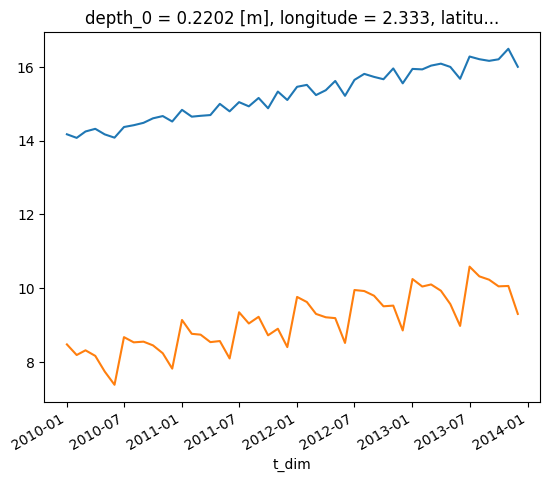
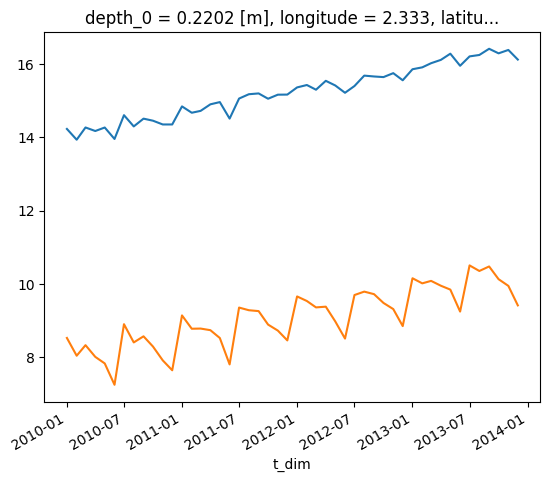
Updated General notebook pages from coast repo.

diff --git a/content/en/docs/Examples/Notebooks/General/seasonal_decomp_example.md b/content/en/docs/Examples/Notebooks/General/seasonal_decomp_example.md
@@ -86,7 +86,7 @@ temperature[0,0,:,:].plot()
 
 
 
-    <matplotlib.collections.QuadMesh at 0x7f813cb17400>
+    <matplotlib.collections.QuadMesh at 0x7f577503da90>
 
 
 
@@ -107,7 +107,7 @@ temperature[:,0,200,200].plot()
 
 
 
-    [<matplotlib.lines.Line2D at 0x7f813c959220>]
+    [<matplotlib.lines.Line2D at 0x7f5774e85a30>]
 
 
 
@@ -513,7 +513,7 @@ Dimensions without coordinates: z_dim, y_dim, x_dim
 Data variables:
     trend      (t_dim, z_dim, y_dim, x_dim) float64 nan nan nan ... nan nan nan
     seasonal   (t_dim, z_dim, y_dim, x_dim) float64 nan nan nan ... nan nan nan
-    residual   (t_dim, z_dim, y_dim, x_dim) float64 nan nan nan ... nan nan nan</pre><div class='xr-wrap' style='display:none'><div class='xr-header'><div class='xr-obj-type'>xarray.Dataset</div></div><ul class='xr-sections'><li class='xr-section-item'><input id='section-73af2abd-d2d8-4fd4-a4c1-2c2d512a7f9b' class='xr-section-summary-in' type='checkbox' disabled ><label for='section-73af2abd-d2d8-4fd4-a4c1-2c2d512a7f9b' class='xr-section-summary'  title='Expand/collapse section'>Dimensions:</label><div class='xr-section-inline-details'><ul class='xr-dim-list'><li><span class='xr-has-index'>t_dim</span>: 48</li><li><span>z_dim</span>: 2</li><li><span>y_dim</span>: 375</li><li><span>x_dim</span>: 297</li></ul></div><div class='xr-section-details'></div></li><li class='xr-section-item'><input id='section-dbed577f-ab55-45ea-9c8e-49afcd4b0889' class='xr-section-summary-in' type='checkbox'  checked><label for='section-dbed577f-ab55-45ea-9c8e-49afcd4b0889' class='xr-section-summary' >Coordinates: <span>(4)</span></label><div class='xr-section-inline-details'></div><div class='xr-section-details'><ul class='xr-var-list'><li class='xr-var-item'><div class='xr-var-name'><span class='xr-has-index'>t_dim</span></div><div class='xr-var-dims'>(t_dim)</div><div class='xr-var-dtype'>datetime64[ns]</div><div class='xr-var-preview xr-preview'>2010-01-01 ... 2013-12-01</div><input id='attrs-d571bce1-57db-4f8c-b121-10859d7c633d' class='xr-var-attrs-in' type='checkbox' disabled><label for='attrs-d571bce1-57db-4f8c-b121-10859d7c633d' title='Show/Hide attributes'><svg class='icon xr-icon-file-text2'><use xlink:href='#icon-file-text2'></use></svg></label><input id='data-36d46134-27ab-4b8e-affd-327f8ad4936f' class='xr-var-data-in' type='checkbox'><label for='data-36d46134-27ab-4b8e-affd-327f8ad4936f' title='Show/Hide data repr'><svg class='icon xr-icon-database'><use xlink:href='#icon-database'></use></svg></label><div class='xr-var-attrs'><dl class='xr-attrs'></dl></div><div class='xr-var-data'><pre>array([&#x27;2010-01-01T00:00:00.000000000&#x27;, &#x27;2010-02-01T00:00:00.000000000&#x27;,
+    residual   (t_dim, z_dim, y_dim, x_dim) float64 nan nan nan ... nan nan nan</pre><div class='xr-wrap' style='display:none'><div class='xr-header'><div class='xr-obj-type'>xarray.Dataset</div></div><ul class='xr-sections'><li class='xr-section-item'><input id='section-be43ac84-631e-448d-baca-e4f25aa2b2a9' class='xr-section-summary-in' type='checkbox' disabled ><label for='section-be43ac84-631e-448d-baca-e4f25aa2b2a9' class='xr-section-summary'  title='Expand/collapse section'>Dimensions:</label><div class='xr-section-inline-details'><ul class='xr-dim-list'><li><span class='xr-has-index'>t_dim</span>: 48</li><li><span>z_dim</span>: 2</li><li><span>y_dim</span>: 375</li><li><span>x_dim</span>: 297</li></ul></div><div class='xr-section-details'></div></li><li class='xr-section-item'><input id='section-66bbd9fa-11a6-4f38-96e3-ae0164eb0a09' class='xr-section-summary-in' type='checkbox'  checked><label for='section-66bbd9fa-11a6-4f38-96e3-ae0164eb0a09' class='xr-section-summary' >Coordinates: <span>(4)</span></label><div class='xr-section-inline-details'></div><div class='xr-section-details'><ul class='xr-var-list'><li class='xr-var-item'><div class='xr-var-name'><span class='xr-has-index'>t_dim</span></div><div class='xr-var-dims'>(t_dim)</div><div class='xr-var-dtype'>datetime64[ns]</div><div class='xr-var-preview xr-preview'>2010-01-01 ... 2013-12-01</div><input id='attrs-18e93af1-31ca-455d-b0a4-ae4cdf4f794d' class='xr-var-attrs-in' type='checkbox' disabled><label for='attrs-18e93af1-31ca-455d-b0a4-ae4cdf4f794d' title='Show/Hide attributes'><svg class='icon xr-icon-file-text2'><use xlink:href='#icon-file-text2'></use></svg></label><input id='data-dada59c1-12f8-46c4-a9c3-b98c597f3f2e' class='xr-var-data-in' type='checkbox'><label for='data-dada59c1-12f8-46c4-a9c3-b98c597f3f2e' title='Show/Hide data repr'><svg class='icon xr-icon-database'><use xlink:href='#icon-database'></use></svg></label><div class='xr-var-attrs'><dl class='xr-attrs'></dl></div><div class='xr-var-data'><pre>array([&#x27;2010-01-01T00:00:00.000000000&#x27;, &#x27;2010-02-01T00:00:00.000000000&#x27;,
        &#x27;2010-03-01T00:00:00.000000000&#x27;, &#x27;2010-04-01T00:00:00.000000000&#x27;,
        &#x27;2010-05-01T00:00:00.000000000&#x27;, &#x27;2010-06-01T00:00:00.000000000&#x27;,
        &#x27;2010-07-01T00:00:00.000000000&#x27;, &#x27;2010-08-01T00:00:00.000000000&#x27;,
@@ -537,7 +537,7 @@ Data variables:
        &#x27;2013-07-01T00:00:00.000000000&#x27;, &#x27;2013-08-01T00:00:00.000000000&#x27;,
        &#x27;2013-09-01T00:00:00.000000000&#x27;, &#x27;2013-10-01T00:00:00.000000000&#x27;,
        &#x27;2013-11-01T00:00:00.000000000&#x27;, &#x27;2013-12-01T00:00:00.000000000&#x27;],
-      dtype=&#x27;datetime64[ns]&#x27;)</pre></div></li><li class='xr-var-item'><div class='xr-var-name'><span>depth_0</span></div><div class='xr-var-dims'>(z_dim, y_dim, x_dim)</div><div class='xr-var-dtype'>float32</div><div class='xr-var-preview xr-preview'>0.5 0.5 0.5 0.5 ... 1.5 1.5 1.5 1.5</div><input id='attrs-89cbbe3c-6fdb-4ebf-beb4-cb51e98ec9c4' class='xr-var-attrs-in' type='checkbox' ><label for='attrs-89cbbe3c-6fdb-4ebf-beb4-cb51e98ec9c4' title='Show/Hide attributes'><svg class='icon xr-icon-file-text2'><use xlink:href='#icon-file-text2'></use></svg></label><input id='data-81a026a2-0a62-4f90-ac46-6f0ecd0963a2' class='xr-var-data-in' type='checkbox'><label for='data-81a026a2-0a62-4f90-ac46-6f0ecd0963a2' title='Show/Hide data repr'><svg class='icon xr-icon-database'><use xlink:href='#icon-database'></use></svg></label><div class='xr-var-attrs'><dl class='xr-attrs'><dt><span>units :</span></dt><dd>m</dd><dt><span>standard_name :</span></dt><dd>Depth at time zero on the t-grid</dd></dl></div><div class='xr-var-data'><pre>array([[[0.5       , 0.5       , 0.5       , ..., 0.5       ,
+      dtype=&#x27;datetime64[ns]&#x27;)</pre></div></li><li class='xr-var-item'><div class='xr-var-name'><span>depth_0</span></div><div class='xr-var-dims'>(z_dim, y_dim, x_dim)</div><div class='xr-var-dtype'>float32</div><div class='xr-var-preview xr-preview'>0.5 0.5 0.5 0.5 ... 1.5 1.5 1.5 1.5</div><input id='attrs-62214885-24a0-4266-9bf3-2a6cdebd1777' class='xr-var-attrs-in' type='checkbox' ><label for='attrs-62214885-24a0-4266-9bf3-2a6cdebd1777' title='Show/Hide attributes'><svg class='icon xr-icon-file-text2'><use xlink:href='#icon-file-text2'></use></svg></label><input id='data-b4e1d413-ba2e-42a6-b005-b02f6363d46c' class='xr-var-data-in' type='checkbox'><label for='data-b4e1d413-ba2e-42a6-b005-b02f6363d46c' title='Show/Hide data repr'><svg class='icon xr-icon-database'><use xlink:href='#icon-database'></use></svg></label><div class='xr-var-attrs'><dl class='xr-attrs'><dt><span>units :</span></dt><dd>m</dd><dt><span>standard_name :</span></dt><dd>Depth at time zero on the t-grid</dd></dl></div><div class='xr-var-data'><pre>array([[[0.5       , 0.5       , 0.5       , ..., 0.5       ,
          0.5       , 0.5       ],
         [0.5       , 0.4975586 , 0.4975586 , ..., 0.10009766,
          0.10009766, 0.5       ],
@@ -563,7 +563,7 @@ Data variables:
         [1.5       , 0.30029297, 0.30029297, ..., 0.30029297,
          0.30029297, 1.5       ],
         [1.5       , 1.5       , 1.5       , ..., 1.5       ,
-         1.5       , 1.5       ]]], dtype=float32)</pre></div></li><li class='xr-var-item'><div class='xr-var-name'><span>longitude</span></div><div class='xr-var-dims'>(y_dim, x_dim)</div><div class='xr-var-dtype'>float32</div><div class='xr-var-preview xr-preview'>-19.89 -19.78 -19.67 ... 12.89 13.0</div><input id='attrs-32cc5cea-4ea9-4457-a7b2-c6b91e94ea8c' class='xr-var-attrs-in' type='checkbox' disabled><label for='attrs-32cc5cea-4ea9-4457-a7b2-c6b91e94ea8c' title='Show/Hide attributes'><svg class='icon xr-icon-file-text2'><use xlink:href='#icon-file-text2'></use></svg></label><input id='data-59d39435-3756-4332-9345-547d0c268db8' class='xr-var-data-in' type='checkbox'><label for='data-59d39435-3756-4332-9345-547d0c268db8' title='Show/Hide data repr'><svg class='icon xr-icon-database'><use xlink:href='#icon-database'></use></svg></label><div class='xr-var-attrs'><dl class='xr-attrs'></dl></div><div class='xr-var-data'><pre>array([[-19.888672, -19.777344, -19.666992, ...,  12.777344,  12.888672,
+         1.5       , 1.5       ]]], dtype=float32)</pre></div></li><li class='xr-var-item'><div class='xr-var-name'><span>longitude</span></div><div class='xr-var-dims'>(y_dim, x_dim)</div><div class='xr-var-dtype'>float32</div><div class='xr-var-preview xr-preview'>-19.89 -19.78 -19.67 ... 12.89 13.0</div><input id='attrs-1b98c3bf-fd96-4663-ad65-f6e01ff4c66c' class='xr-var-attrs-in' type='checkbox' disabled><label for='attrs-1b98c3bf-fd96-4663-ad65-f6e01ff4c66c' title='Show/Hide attributes'><svg class='icon xr-icon-file-text2'><use xlink:href='#icon-file-text2'></use></svg></label><input id='data-1c64d6ac-4b03-4fce-aac2-291940099782' class='xr-var-data-in' type='checkbox'><label for='data-1c64d6ac-4b03-4fce-aac2-291940099782' title='Show/Hide data repr'><svg class='icon xr-icon-database'><use xlink:href='#icon-database'></use></svg></label><div class='xr-var-attrs'><dl class='xr-attrs'></dl></div><div class='xr-var-data'><pre>array([[-19.888672, -19.777344, -19.666992, ...,  12.777344,  12.888672,
          13.      ],
        [-19.888672, -19.777344, -19.666992, ...,  12.777344,  12.888672,
          13.      ],
@@ -575,7 +575,7 @@ Data variables:
        [-19.888672, -19.777344, -19.666992, ...,  12.777344,  12.888672,
          13.      ],
        [-19.888672, -19.777344, -19.666992, ...,  12.777344,  12.888672,
-         13.      ]], dtype=float32)</pre></div></li><li class='xr-var-item'><div class='xr-var-name'><span>latitude</span></div><div class='xr-var-dims'>(y_dim, x_dim)</div><div class='xr-var-dtype'>float32</div><div class='xr-var-preview xr-preview'>40.07 40.07 40.07 ... 65.0 65.0</div><input id='attrs-fa23b420-d075-4c0e-afec-fee491cfd922' class='xr-var-attrs-in' type='checkbox' disabled><label for='attrs-fa23b420-d075-4c0e-afec-fee491cfd922' title='Show/Hide attributes'><svg class='icon xr-icon-file-text2'><use xlink:href='#icon-file-text2'></use></svg></label><input id='data-471a2b3f-bcf1-48ec-9f22-bc169607765a' class='xr-var-data-in' type='checkbox'><label for='data-471a2b3f-bcf1-48ec-9f22-bc169607765a' title='Show/Hide data repr'><svg class='icon xr-icon-database'><use xlink:href='#icon-database'></use></svg></label><div class='xr-var-attrs'><dl class='xr-attrs'></dl></div><div class='xr-var-data'><pre>array([[40.066406, 40.066406, 40.066406, ..., 40.066406, 40.066406,
+         13.      ]], dtype=float32)</pre></div></li><li class='xr-var-item'><div class='xr-var-name'><span>latitude</span></div><div class='xr-var-dims'>(y_dim, x_dim)</div><div class='xr-var-dtype'>float32</div><div class='xr-var-preview xr-preview'>40.07 40.07 40.07 ... 65.0 65.0</div><input id='attrs-50b59007-34d8-4b6e-b578-8456a6d2d744' class='xr-var-attrs-in' type='checkbox' disabled><label for='attrs-50b59007-34d8-4b6e-b578-8456a6d2d744' title='Show/Hide attributes'><svg class='icon xr-icon-file-text2'><use xlink:href='#icon-file-text2'></use></svg></label><input id='data-f11c4578-3b1f-4e79-9410-9485053387ff' class='xr-var-data-in' type='checkbox'><label for='data-f11c4578-3b1f-4e79-9410-9485053387ff' title='Show/Hide data repr'><svg class='icon xr-icon-database'><use xlink:href='#icon-database'></use></svg></label><div class='xr-var-attrs'><dl class='xr-attrs'></dl></div><div class='xr-var-data'><pre>array([[40.066406, 40.066406, 40.066406, ..., 40.066406, 40.066406,
         40.066406],
        [40.13379 , 40.13379 , 40.13379 , ..., 40.13379 , 40.13379 ,
         40.13379 ],
@@ -587,11 +587,11 @@ Data variables:
        [64.93457 , 64.93457 , 64.93457 , ..., 64.93457 , 64.93457 ,
         64.93457 ],
        [65.00098 , 65.00098 , 65.00098 , ..., 65.00098 , 65.00098 ,
-        65.00098 ]], dtype=float32)</pre></div></li></ul></div></li><li class='xr-section-item'><input id='section-c32d3082-2523-4e92-8549-7c2a6ad69ebf' class='xr-section-summary-in' type='checkbox'  checked><label for='section-c32d3082-2523-4e92-8549-7c2a6ad69ebf' class='xr-section-summary' >Data variables: <span>(3)</span></label><div class='xr-section-inline-details'></div><div class='xr-section-details'><ul class='xr-var-list'><li class='xr-var-item'><div class='xr-var-name'><span>trend</span></div><div class='xr-var-dims'>(t_dim, z_dim, y_dim, x_dim)</div><div class='xr-var-dtype'>float64</div><div class='xr-var-preview xr-preview'>nan nan nan nan ... nan nan nan nan</div><input id='attrs-1c200a37-acdb-426b-9b3e-63e7b30ebc39' class='xr-var-attrs-in' type='checkbox' disabled><label for='attrs-1c200a37-acdb-426b-9b3e-63e7b30ebc39' title='Show/Hide attributes'><svg class='icon xr-icon-file-text2'><use xlink:href='#icon-file-text2'></use></svg></label><input id='data-cc3ee7ec-0d32-4569-819b-993ccedb0c67' class='xr-var-data-in' type='checkbox'><label for='data-cc3ee7ec-0d32-4569-819b-993ccedb0c67' title='Show/Hide data repr'><svg class='icon xr-icon-database'><use xlink:href='#icon-database'></use></svg></label><div class='xr-var-attrs'><dl class='xr-attrs'></dl></div><div class='xr-var-data'><pre>array([[[[        nan,         nan,         nan, ...,         nan,
+        65.00098 ]], dtype=float32)</pre></div></li></ul></div></li><li class='xr-section-item'><input id='section-79c3837d-47e1-437a-89e3-727bf4d669fc' class='xr-section-summary-in' type='checkbox'  checked><label for='section-79c3837d-47e1-437a-89e3-727bf4d669fc' class='xr-section-summary' >Data variables: <span>(3)</span></label><div class='xr-section-inline-details'></div><div class='xr-section-details'><ul class='xr-var-list'><li class='xr-var-item'><div class='xr-var-name'><span>trend</span></div><div class='xr-var-dims'>(t_dim, z_dim, y_dim, x_dim)</div><div class='xr-var-dtype'>float64</div><div class='xr-var-preview xr-preview'>nan nan nan nan ... nan nan nan nan</div><input id='attrs-f5896077-20e5-40d0-ab87-0686fa9b584c' class='xr-var-attrs-in' type='checkbox' disabled><label for='attrs-f5896077-20e5-40d0-ab87-0686fa9b584c' title='Show/Hide attributes'><svg class='icon xr-icon-file-text2'><use xlink:href='#icon-file-text2'></use></svg></label><input id='data-be8e89dc-d757-42a4-b3dd-fa49cbf11b9b' class='xr-var-data-in' type='checkbox'><label for='data-be8e89dc-d757-42a4-b3dd-fa49cbf11b9b' title='Show/Hide data repr'><svg class='icon xr-icon-database'><use xlink:href='#icon-database'></use></svg></label><div class='xr-var-attrs'><dl class='xr-attrs'></dl></div><div class='xr-var-data'><pre>array([[[[        nan,         nan,         nan, ...,         nan,
                   nan,         nan],
-         [        nan, 15.2980616 , 15.29480639, ...,         nan,
+         [        nan, 15.32461529, 15.32136008, ...,         nan,
                   nan,         nan],
-         [        nan, 15.28699389, 15.45479988, ...,         nan,
+         [        nan, 15.31354758, 15.48135357, ...,         nan,
                   nan,         nan],
          ...,
          [        nan,         nan,         nan, ...,         nan,
@@ -603,9 +603,9 @@ Data variables:
 
         [[        nan,         nan,         nan, ...,         nan,
                   nan,         nan],
-         [        nan, 15.29708504, 15.29399259, ...,         nan,
+         [        nan, 15.32363873, 15.32054628, ...,         nan,
                   nan,         nan],
-         [        nan, 15.28585457, 15.45870613, ...,         nan,
+         [        nan, 15.31240826, 15.48525982, ...,         nan,
                   nan,         nan],
 ...
          [        nan,         nan,         nan, ...,         nan,
@@ -617,9 +617,9 @@ Data variables:
 
         [[        nan,         nan,         nan, ...,         nan,
                   nan,         nan],
-         [        nan, 17.5558741 , 17.55278166, ...,         nan,
+         [        nan, 17.73842966, 17.73533721, ...,         nan,
                   nan,         nan],
-         [        nan, 17.54464364, 17.7174952 , ...,         nan,
+         [        nan, 17.72719919, 17.90005075, ...,         nan,
                   nan,         nan],
          ...,
          [        nan,         nan,         nan, ...,         nan,
@@ -627,11 +627,11 @@ Data variables:
          [        nan,         nan,         nan, ...,         nan,
                   nan,         nan],
          [        nan,         nan,         nan, ...,         nan,
-                  nan,         nan]]]])</pre></div></li><li class='xr-var-item'><div class='xr-var-name'><span>seasonal</span></div><div class='xr-var-dims'>(t_dim, z_dim, y_dim, x_dim)</div><div class='xr-var-dtype'>float64</div><div class='xr-var-preview xr-preview'>nan nan nan nan ... nan nan nan nan</div><input id='attrs-e67d79c7-5e12-4381-93bf-415d33bdb441' class='xr-var-attrs-in' type='checkbox' disabled><label for='attrs-e67d79c7-5e12-4381-93bf-415d33bdb441' title='Show/Hide attributes'><svg class='icon xr-icon-file-text2'><use xlink:href='#icon-file-text2'></use></svg></label><input id='data-667e1855-3e65-4bca-8dfe-6bfcd02db984' class='xr-var-data-in' type='checkbox'><label for='data-667e1855-3e65-4bca-8dfe-6bfcd02db984' title='Show/Hide data repr'><svg class='icon xr-icon-database'><use xlink:href='#icon-database'></use></svg></label><div class='xr-var-attrs'><dl class='xr-attrs'></dl></div><div class='xr-var-data'><pre>array([[[[        nan,         nan,         nan, ...,         nan,
+                  nan,         nan]]]])</pre></div></li><li class='xr-var-item'><div class='xr-var-name'><span>seasonal</span></div><div class='xr-var-dims'>(t_dim, z_dim, y_dim, x_dim)</div><div class='xr-var-dtype'>float64</div><div class='xr-var-preview xr-preview'>nan nan nan nan ... nan nan nan nan</div><input id='attrs-ceab550e-102d-4636-aa2e-99d9d822c074' class='xr-var-attrs-in' type='checkbox' disabled><label for='attrs-ceab550e-102d-4636-aa2e-99d9d822c074' title='Show/Hide attributes'><svg class='icon xr-icon-file-text2'><use xlink:href='#icon-file-text2'></use></svg></label><input id='data-748d4221-f253-4705-bcb8-86382f201fbe' class='xr-var-data-in' type='checkbox'><label for='data-748d4221-f253-4705-bcb8-86382f201fbe' title='Show/Hide data repr'><svg class='icon xr-icon-database'><use xlink:href='#icon-database'></use></svg></label><div class='xr-var-attrs'><dl class='xr-attrs'></dl></div><div class='xr-var-data'><pre>array([[[[        nan,         nan,         nan, ...,         nan,
                   nan,         nan],
-         [        nan,  0.08177384, -0.00188501, ...,         nan,
+         [        nan,  0.07128676, -0.0123721 , ...,         nan,
                   nan,         nan],
-         [        nan,  0.10748999,  0.33714493, ...,         nan,
+         [        nan,  0.0970029 ,  0.32665785, ...,         nan,
                   nan,         nan],
          ...,
          [        nan,         nan,         nan, ...,         nan,
@@ -643,9 +643,9 @@ Data variables:
 
         [[        nan,         nan,         nan, ...,         nan,
                   nan,         nan],
-         [        nan,  0.07103165, -0.01278996, ...,         nan,
+         [        nan,  0.06054457, -0.02327704, ...,         nan,
                   nan,         nan],
-         [        nan,  0.09691056,  0.33323868, ...,         nan,
+         [        nan,  0.08642348,  0.3227516 , ...,         nan,
                   nan,         nan],
 ...
          [        nan,         nan,         nan, ...,         nan,
@@ -657,9 +657,9 @@ Data variables:
 
         [[        nan,         nan,         nan, ...,         nan,
                   nan,         nan],
-         [        nan, -0.30710945, -0.29034513, ...,         nan,
+         [        nan, -0.3225998 , -0.30583548, ...,         nan,
                   nan,         nan],
-         [        nan, -0.31736336, -0.66599617, ...,         nan,
+         [        nan, -0.33285371, -0.68148652, ...,         nan,
                   nan,         nan],
          ...,
          [        nan,         nan,         nan, ...,         nan,
@@ -667,11 +667,11 @@ Data variables:
          [        nan,         nan,         nan, ...,         nan,
                   nan,         nan],
          [        nan,         nan,         nan, ...,         nan,
-                  nan,         nan]]]])</pre></div></li><li class='xr-var-item'><div class='xr-var-name'><span>residual</span></div><div class='xr-var-dims'>(t_dim, z_dim, y_dim, x_dim)</div><div class='xr-var-dtype'>float64</div><div class='xr-var-preview xr-preview'>nan nan nan nan ... nan nan nan nan</div><input id='attrs-b7b4a311-7962-4c97-9d44-2a0d6f7f4d83' class='xr-var-attrs-in' type='checkbox' disabled><label for='attrs-b7b4a311-7962-4c97-9d44-2a0d6f7f4d83' title='Show/Hide attributes'><svg class='icon xr-icon-file-text2'><use xlink:href='#icon-file-text2'></use></svg></label><input id='data-024fe185-7eef-4175-8a11-51795a0bd41e' class='xr-var-data-in' type='checkbox'><label for='data-024fe185-7eef-4175-8a11-51795a0bd41e' title='Show/Hide data repr'><svg class='icon xr-icon-database'><use xlink:href='#icon-database'></use></svg></label><div class='xr-var-attrs'><dl class='xr-attrs'></dl></div><div class='xr-var-data'><pre>array([[[[        nan,         nan,         nan, ...,         nan,
+                  nan,         nan]]]])</pre></div></li><li class='xr-var-item'><div class='xr-var-name'><span>residual</span></div><div class='xr-var-dims'>(t_dim, z_dim, y_dim, x_dim)</div><div class='xr-var-dtype'>float64</div><div class='xr-var-preview xr-preview'>nan nan nan nan ... nan nan nan nan</div><input id='attrs-b61d6a2a-7b5a-4d53-9405-be4983c623b3' class='xr-var-attrs-in' type='checkbox' disabled><label for='attrs-b61d6a2a-7b5a-4d53-9405-be4983c623b3' title='Show/Hide attributes'><svg class='icon xr-icon-file-text2'><use xlink:href='#icon-file-text2'></use></svg></label><input id='data-773dd443-fbcf-4f3e-8396-95c833110867' class='xr-var-data-in' type='checkbox'><label for='data-773dd443-fbcf-4f3e-8396-95c833110867' title='Show/Hide data repr'><svg class='icon xr-icon-database'><use xlink:href='#icon-database'></use></svg></label><div class='xr-var-attrs'><dl class='xr-attrs'></dl></div><div class='xr-var-data'><pre>array([[[[        nan,         nan,         nan, ...,         nan,
                   nan,         nan],
-         [        nan,  0.03964773,  0.03964773, ...,         nan,
+         [        nan,  0.07642668,  0.07642668, ...,         nan,
                   nan,         nan],
-         [        nan,  0.03964773,  0.03964773, ...,         nan,
+         [        nan,  0.07642668,  0.07642668, ...,         nan,
                   nan,         nan],
          ...,
          [        nan,         nan,         nan, ...,         nan,
@@ -683,9 +683,9 @@ Data variables:
 
         [[        nan,         nan,         nan, ...,         nan,
                   nan,         nan],
-         [        nan,  0.03964773,  0.03964773, ...,         nan,
+         [        nan,  0.07642668,  0.07642668, ...,         nan,
                   nan,         nan],
-         [        nan,  0.03964773,  0.03964773, ...,         nan,
+         [        nan,  0.07642668,  0.07642668, ...,         nan,
                   nan,         nan],
 ...
          [        nan,         nan,         nan, ...,         nan,
@@ -697,9 +697,9 @@ Data variables:
 
         [[        nan,         nan,         nan, ...,         nan,
                   nan,         nan],
-         [        nan, -0.04590631, -0.04590631, ...,         nan,
+         [        nan, -0.09882673, -0.09882673, ...,         nan,
                   nan,         nan],
-         [        nan, -0.04590631, -0.04590631, ...,         nan,
+         [        nan, -0.09882673, -0.09882673, ...,         nan,
                   nan,         nan],
          ...,
          [        nan,         nan,         nan, ...,         nan,
@@ -707,7 +707,7 @@ Data variables:
          [        nan,         nan,         nan, ...,         nan,
                   nan,         nan],
          [        nan,         nan,         nan, ...,         nan,
-                  nan,         nan]]]])</pre></div></li></ul></div></li><li class='xr-section-item'><input id='section-fd879d4f-1c4e-45b9-829a-59e92ac7ce3b' class='xr-section-summary-in' type='checkbox' disabled ><label for='section-fd879d4f-1c4e-45b9-829a-59e92ac7ce3b' class='xr-section-summary'  title='Expand/collapse section'>Attributes: <span>(0)</span></label><div class='xr-section-inline-details'></div><div class='xr-section-details'><dl class='xr-attrs'></dl></div></li></ul></div></div>
+                  nan,         nan]]]])</pre></div></li></ul></div></li><li class='xr-section-item'><input id='section-f1a72294-211d-4540-8c23-5b899360445c' class='xr-section-summary-in' type='checkbox' disabled ><label for='section-f1a72294-211d-4540-8c23-5b899360445c' class='xr-section-summary'  title='Expand/collapse section'>Attributes: <span>(0)</span></label><div class='xr-section-inline-details'></div><div class='xr-section-details'><dl class='xr-attrs'></dl></div></li></ul></div></div>
 
 
 
@@ -726,9 +726,9 @@ temp_decomp[:,:,0,200,200].plot(hue="component")
 
 
 
-    [<matplotlib.lines.Line2D at 0x7f813c808ee0>,
-     <matplotlib.lines.Line2D at 0x7f813c8a7cd0>,
-     <matplotlib.lines.Line2D at 0x7f813c7f9ca0>]
+    [<matplotlib.lines.Line2D at 0x7f5774dd1eb0>,
+     <matplotlib.lines.Line2D at 0x7f5774d313a0>,
+     <matplotlib.lines.Line2D at 0x7f5774d313d0>]
 
 
 

diff --git a/content/en/docs/Examples/Notebooks/General/climatology_tutorial.md b/content/en/docs/Examples/Notebooks/General/climatology_tutorial.md
@@ -66,10 +66,6 @@ clim = coast.Climatology()
 clim_mean = clim.make_climatology(data, climatology_frequency, fn_out=fn_out)
 ```
 
-    /usr/share/miniconda/envs/coast/lib/python3.8/site-packages/numpy/core/_methods.py:179: RuntimeWarning: invalid value encountered in reduce
-      ret = umr_sum(arr, axis, dtype, out, keepdims, where=where)
-
-
 Below shows the structure of a dataset returned, containing 1 month worth of meaned temperature and sea surface height data:
 
 

diff --git a/content/en/docs/Examples/Notebooks/General/eof_tutorial.md b/content/en/docs/Examples/Notebooks/General/eof_tutorial.md
@@ -70,7 +70,7 @@ eof_data.EOF.sel(mode=[1,2,3,4]).plot.pcolormesh(col='mode',col_wrap=2,x='longit
 
 
 
-    <xarray.plot.facetgrid.FacetGrid at 0x7f215e2cde50>
+    <xarray.plot.facetgrid.FacetGrid at 0x7fd61c5db670>
 
 
 
@@ -88,7 +88,7 @@ eof_data.temporal_proj.sel(mode=[1,2,3,4]).plot(col='mode',col_wrap=2,x='time')
 
 
 
-    <xarray.plot.facetgrid.FacetGrid at 0x7f2155d769a0>
+    <xarray.plot.facetgrid.FacetGrid at 0x7fd5d4ba5dc0>
 
 
 
